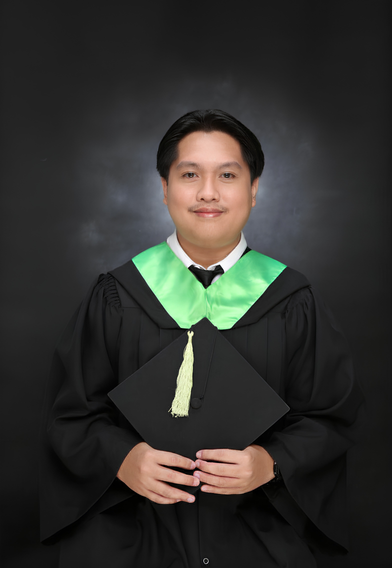
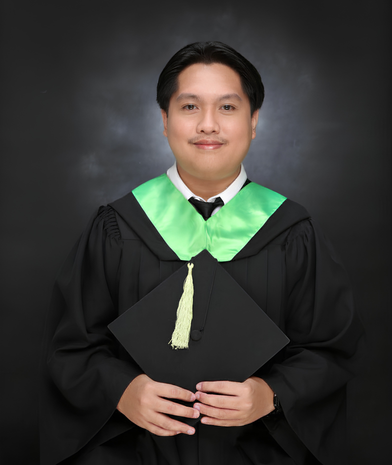
Fixed issues and silence tsconfig.json

diff --git a/src/types/index.ts b/src/types/index.ts
@@ -17,19 +17,32 @@ export interface SkillCategories {
   other?: string[];
 }
 
+export interface Certification {
+  name: string;
+  issuer: string;
+  date: string;
+  featured?: boolean;
+  description?: string;
+}
+
+export interface Coursework {
+  name: string;
+  issuer: string;
+  date: string;
+}
+
+export interface SkillsAndCertifications {
+  skillCategories: SkillCategories;
+  certifications: Certification[];
+  additionalCoursework?: Coursework[];
+}
+
 export interface SiteContent {
   hero: HeroProps;
   experience: ExperienceProps[];
   projects: ProjectProps[];
   about: AboutProps;
-  skillsAndCertifications: {
-    skillCategories: SkillCategories;          // <-- now an object of categories
-    certifications: {
-      name: string;
-      issuer: string;
-      date: string;
-    }[];
-  };
+  skillsAndCertifications: SkillsAndCertifications;
 }
 
 export interface HeroProps {